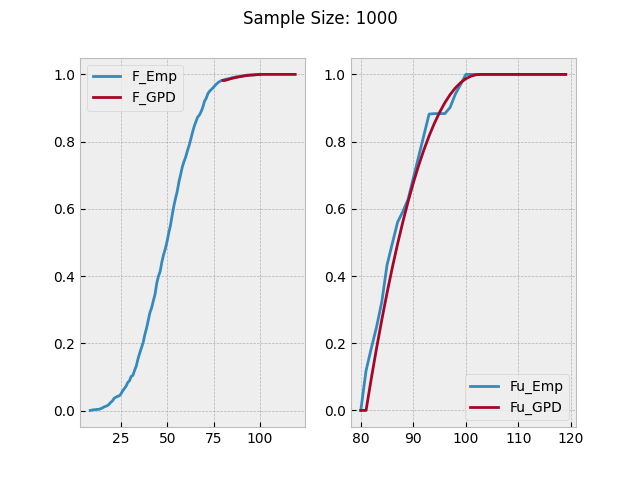
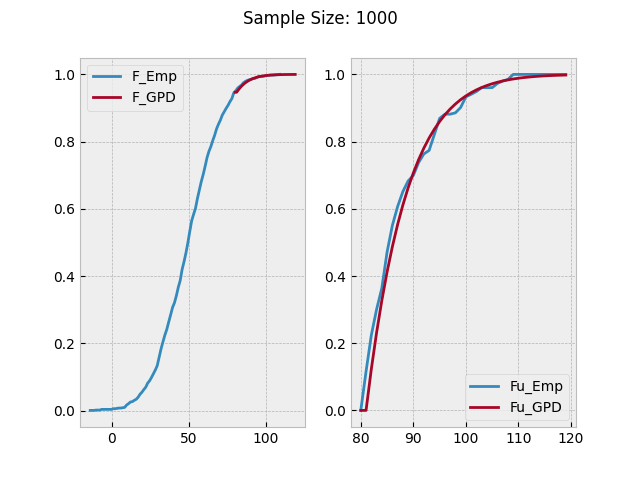
Clean up code

diff --git a/evt.py b/evt.py
@@ -4,55 +4,45 @@ EVT Modeling Demonstration
 
 # IMPORTS
 import scipy.stats as stats
-import scipy.optimize as opt
 import numpy as np
 import matplotlib.pyplot as plt
 plt.style.use('bmh')
 
+# Naive CDF Estimation
+def f_empirical(x, x_cdf):
+    for possible_bin in range(1, len(bin_center)):
+        if bin_center[possible_bin] >= x:
+            binsize = (bin_center[possible_bin] - bin_center[possible_bin-1])
+            ratio = (x - bin_center[possible_bin-1])/binsize
+            #print(f'binsize={binsize}, ratio={ratio}')
+            return (1-ratio)*x_cdf[possible_bin-1] + (ratio)*x_cdf[possible_bin]
+    return 1
+
+# Iteration through different sample sizes
 for sample_size in [1000, 2000, 5000, 50000]:
     fig, ax = plt.subplots(1, 2)
-    fig.suptitle("Sample Size: {}".format(sample_size))
+    fig.suptitle(f"Sample Size: {sample_size}")
+    print(f"Sample Size: {sample_size}")
 
     # MOCK DATA GENERATION
     # Generates and samples from two Gaussian distributions
-    l = [i for i in stats.norm.rvs(size=sample_size, loc=10, scale=10) if i >= 0]
+    #l = [i for i in stats.norm.rvs(size=sample_size, loc=10, scale=10) if i >= 0]
     #plt.hist(l, bins=30, alpha=0.8, density=True)
     r = stats.norm.rvs(size=sample_size, loc=50, scale=15)
     #plt.hist(r, bins=100, alpha=0.8)
-    #plt.show()
 
     # EVT MODELING FUNCTION
     u = 80
+    print(f"Threshold: {u}")
     nu = len([i for i in r if i > u])
     n = len(r)
+    print(f"Number of exceedances: {nu}")
 
     x_pdf, edges = np.histogram(r, bins=100, density=True)
     x_pdf /= sum(x_pdf)
     bin_center = (edges[:-1]+edges[1:])/2
     x_cdf = np.cumsum(x_pdf)
-    ax[0].plot(bin_center, x_cdf)
-
-    '''
-    fu_pdf = np.histogram([i-u for i in l if i > u], bins=30)[0]/nu
-
-    plt.plot(fu_empirical)
-
-    fu_empirical_cdf = [0] * len(fu_empirical)
-    fu_empirical_cdf[0] = fu_empirical[0]
-    for i in range(1, len(fu_empirical_cdf)):
-        fu_empirical_cdf[i] = fu_empirical_cdf[i-1] + fu_empirical[i]
-
-    plt.plot(fu_empirical_cdf)
-    '''
-
-    def f_empirical(x, x_cdf):
-        for possible_bin in range(1, len(bin_center)):
-            if bin_center[possible_bin] >= x:
-                binsize = (bin_center[possible_bin] - bin_center[possible_bin-1])
-                ratio = (x - bin_center[possible_bin-1])/binsize
-                print(f'binsize={binsize}, ratio={ratio}')
-                return (1-ratio)*x_cdf[possible_bin-1] + (ratio)*x_cdf[possible_bin]
-        return 1
+    ax[0].plot(bin_center, x_cdf) # F_empirical
 
     fu = []
     for x in range(u, 120):
@@ -60,9 +50,8 @@ for sample_size in [1000, 2000, 5000, 50000]:
         fu.append(
             (f_empirical(y+u, x_cdf) - f_empirical(u, x_cdf)) / (1 - f_empirical(u, x_cdf))
         )
-    ax[1].plot(range(u, 120), np.array(fu))
+    ax[1].plot(range(u, 120), np.array(fu)) # F_u_empirical
 
-    # CHANGE THIS LATER
     fake_data = []
     fu_pdf = [0] * len(fu)
     fu_pdf[0] = fu[0]
@@ -71,19 +60,22 @@ for sample_size in [1000, 2000, 5000, 50000]:
     for i in range(len(fu_pdf)):
         fake_data += [i for _ in range(int(fu_pdf[i] * 1000))]
 
-    '''
-    gpd = lambda x, c: stats.genpareto(c).cdf(x)
-    c = opt.curve_fit(gpd, range(u, 120), fu)[0][0]
-    '''
-
     c, loc, scale = stats.genpareto.fit(fake_data)
     print(f"Optimized GPD Parameters: {c}, {loc}, {scale}")
     fu_cdf_gpd = stats.genpareto.cdf(range(len(fu)), c, loc, scale)
-    ax[1].plot(range(u, 120), fu_cdf_gpd)
+    ax[1].plot(range(u, 120), fu_cdf_gpd) # F_u_GPD
 
     f_cdf = (1 - (n - nu)/n) * fu_cdf_gpd + (n - nu)/n
-    print(f_cdf)
-    ax[0].plot(range(u, 120), f_cdf)
+    #print("CDF Values:")
+    #print(f_cdf)
+    ax[0].plot(range(u, 120), f_cdf) # F_GPD
+
+    # Calculate MSE
+    mse = 0
+    for i in range(len(f_cdf)):
+        mse += (f_cdf[i] - f_empirical(i+u, x_cdf))**2
+    mse /= len(f_cdf)
+    print(f"MSE from Empirical: {mse}")
 
     '''
     f_pdf = []
@@ -94,5 +86,8 @@ for sample_size in [1000, 2000, 5000, 50000]:
 
     ax[0].legend(["F_Emp", "F_GPD"])
     ax[1].legend(["Fu_Emp", "Fu_GPD"])
+
+    print(f"Writing to: gpd_{sample_size}.png")
     fig.savefig(f"gpd_{sample_size}.png")
+    print("-------------------------------")
     #plt.show()
